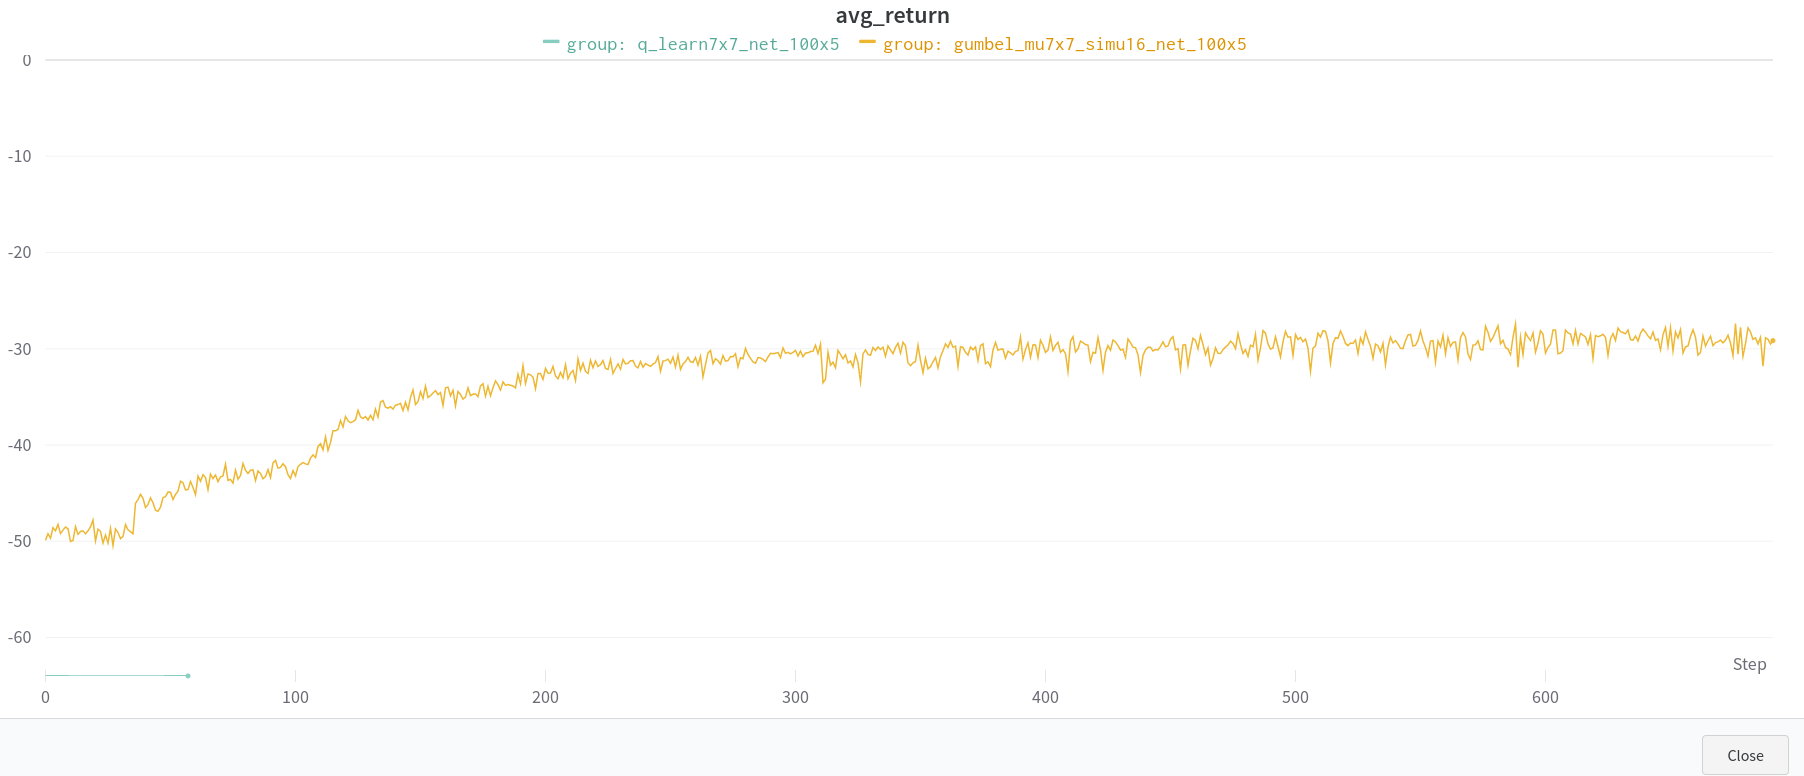
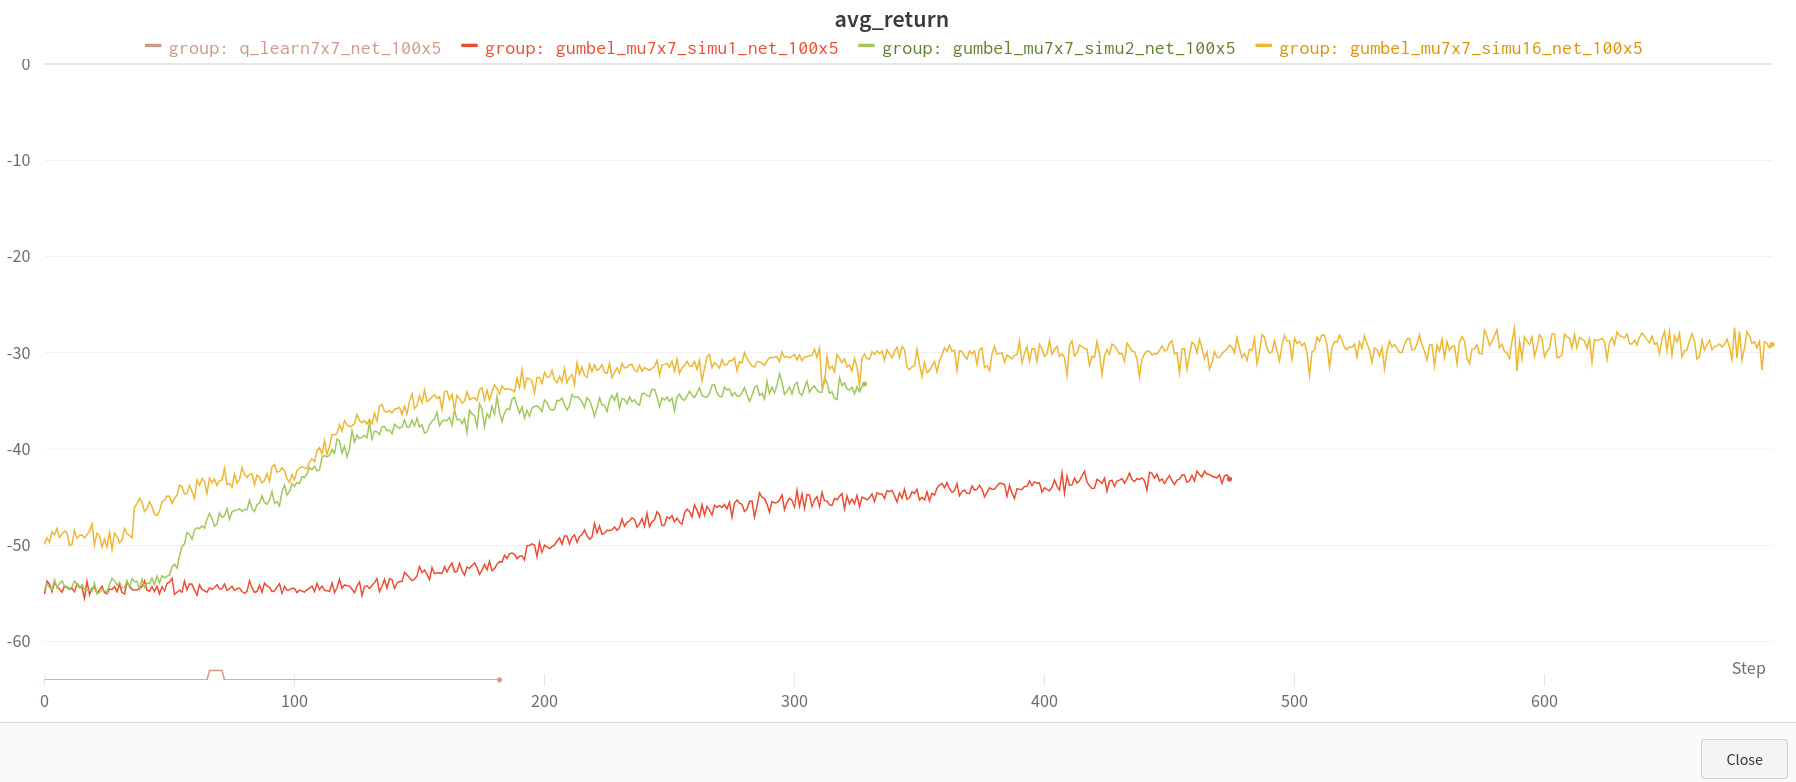
update

diff --git a/readme.md b/readme.md
@@ -20,6 +20,7 @@ Q learning fails to learn anything useful
 gumbel muzero can learn something     
 
 ### 5x5 maze  (simple problem)
+network-structure--> [100]*3
 
 ```sh
 python algos/gumbel_zero/main.py  --enable_wandb True --env_config.grid_size 5 --num_simulations 5 --algo gumbel_mu5x5_simu5
@@ -35,8 +36,9 @@ python algos/gumbel_zero/main.py  --enable_wandb True --env_config.grid_size 5 -
 ```
 gumbel muzero with one simution budget (orange) learns significantly slower than q_learnging   
 <img src="assets/simu_3_1.png" alt= “” width="800px" >
-### 7x7 maze  (more difficult problem)
 
+### 7x7 maze  (more difficult problem)
+network-structure--> [100]*5      
 
 ```sh
 python algos/gumbel_zero/main.py  --enable_wandb True --env_config.grid_size 7 --num_hidden_layers 5 --num_simulations 16  --algo gumbel_mu7x7_simu16_net_100x5
@@ -45,8 +47,9 @@ python algos/gumbel_zero/main.py  --enable_wandb True --env_config.grid_size 7 -
 
 python algos/gumbel_zero/main.py  --enable_wandb True --env_config.grid_size 7 --num_hidden_layers 5 --num_simulations 4  --algo gumbel_mu7x7_simu4_net_100x5
 
-
 python algos/q_learn/main.py  --enable_wandb True --env_config.grid_size 7 --n_layers 5  --algo q_learn7x7_net_100x5 
+
+python algos/q_learn/main.py  --enable_wandb True --env_config.grid_size 7 --n_layers 7  --algo q_learn7x7_net_100x7 
 ```
 
 q-learning fails to learn anything useful     
